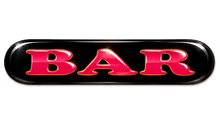
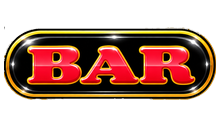
NEO CLASSIC SLOT Ver.10: 位置固定版リール配列・新図柄・正式筐体デザイン
- リール配列: 赤7・BAR・チェリー（オリジナルジャグラー位置）と山（左18/8/1・中13/5・右15/9・2）を固定し、
  リプレイ（旧サイ）・ブドウ・ベルを配置。同じ図柄の縦連続なし
- ブドウ・リプレイの取りこぼしを許容（左・右から止めた時を優先: ブドウ約99.6%・リプレイ約98.5%）
- 左上段山（BARが滑って山）をチャンス目に。左右の山は上段・下段を基本形に
- 新リーチ目: 右上段BAR（赤7なし）=REG、逆押し 右7・BAR＋中段7・BAR=2確、チェリー外れ＋中段BAR=2確
- 図柄7種を正式画像に（赤7・BAR・ブドウ・チェリー・ベル・山・リプレイ）
- 正式筐体画像を背景にし、ランプ・ボタンは光と影のオーバーレイで状態表示。全ボタン操作可
- 総当たり検証171ケースOK（停止禁止0・持ち越し中の目押し保証100%）。確率・速度(50回転)は変更なし

Claude-Session: https://claude.ai/code/session_01FgUBCrA5amgdSwhB6kzWH8

diff --git a/js/core/verifier.js b/js/core/verifier.js
@@ -6,7 +6,7 @@
 
   var ORDERS = [[0, 1, 2], [0, 2, 1], [1, 0, 2], [1, 2, 0], [2, 0, 1], [2, 1, 0]];
   var ORDER_NAMES = ['順押し', '順挟み(左右中)', '中左右', '中右左', '挟み(右左中)', '逆押し'];
-  var MUST_ALIGN = ['GRAPE', 'REPLAY']; // 取りこぼし不可の役
+  var MUST_ALIGN = ['GRAPE', 'REPLAY']; // できるだけ取りこぼさない役（左・右から止めた時を優先。取りこぼしは許容）
 
   NCS.CONTROL_ORDERS = ORDERS;
   NCS.CONTROL_ORDER_NAMES = ORDER_NAMES;
@@ -45,7 +45,7 @@
   NCS.verifyCase = function (flag) {
     var ctrl = new NCS.ReelControl();
     var N = NCS.REEL_SIZE;
-    var st = { games: 0, forbidden: 0, small: 0, bonus: 0, aimed: 0, aimedOk: 0, reach: {}, detAt: [0, 0, 0, 0], maxSlide: 0, samples: [] };
+    var st = { games: 0, forbidden: 0, small: 0, smallLR: 0, gamesLR: 0, bonus: 0, aimed: 0, aimedOk: 0, reach: {}, detAt: [0, 0, 0, 0], maxSlide: 0, samples: [] };
     var detMemo = new Map();
 
     function det(stops, order) {
@@ -92,7 +92,9 @@
           st.forbidden++;
           if (st.samples.length < 5) st.samples.push({ order: ord, press: press, stops: ctrl.stops.slice(), wins: j.wins, reachMe: j.reachMe });
         }
-        if (flag.small && j.wins.some(function (w) { return w.role === flag.small; })) st.small++;
+        var smallWin = flag.small && j.wins.some(function (w) { return w.role === flag.small; });
+        if (smallWin) st.small++;
+        if (ord[0] !== 1) { st.gamesLR++; if (smallWin) st.smallLR++; } // 順押し・逆押し・挟み打ち（左か右から）
         var bonusWin = flag.bonus && j.wins.some(function (w) { return w.role === flag.bonus; });
         if (bonusWin) st.bonus++;
         if (aimed) { st.aimed++; if (bonusWin) st.aimedOk++; }
@@ -111,8 +113,7 @@
       if (st.maxSlide > NCS.MAX_SLIDE) errors.push('すべり超過');
       // 取りこぼし無しの保証は MAX BET（5ライン）のみ。1・2枚掛けは有効ラインが少ないため対象外
       if (st.aimed && st.aimedOk !== st.aimed) errors.push('目押ししても揃わない ' + (st.aimed - st.aimedOk) + '件');
-      // 持ち越し中は目押しされたボーナスを小役より優先するため、取りこぼし無し保証の対象外
-      if (flag.newBonus !== false && flag.bet === NCS.MAX_BET && flag.small && MUST_ALIGN.indexOf(flag.small) >= 0 && st.small !== st.games) errors.push(flag.small + ' 取りこぼし ' + (st.games - st.small) + '件');
+      // ブドウ・リプレイの取りこぼしは許容（出目・演出を優先）。入賞率を表示するのみ
       if (errors.length) ok = false;
       out.push({ flag: flag, name: flagName(flag), stats: st, errors: errors });
       if (onProgress) onProgress(idx + 1, list.length);
@@ -127,7 +128,7 @@
     lines.push('== 停止制御 総当たり検証 (6停止順 × 21^3押下位置 = 55566通り/フラグ) ==');
     rep.results.forEach(function (r) {
       var s = r.stats, parts = [];
-      if (r.flag.small) parts.push(r.flag.small + '入賞 ' + pct(s.small, s.games));
+      if (r.flag.small) parts.push(r.flag.small + '入賞 ' + pct(s.small, s.games) + '（左・右から ' + pct(s.smallLR, s.gamesLR) + '）');
       if (r.flag.bonus) parts.push(r.flag.bonus + '揃い ' + pct(s.bonus, s.games));
       if (s.aimed) parts.push('目押し時の揃い ' + s.aimedOk + '/' + s.aimed);
       var rm = Object.keys(s.reach).map(function (k) { return k + ' ' + pct(s.reach[k], s.games); });

diff --git a/css/cabinet.css b/css/cabinet.css
@@ -227,3 +227,43 @@
 .stop2 .pm-l1 { font-size: 34px; color: #e9d0ff; text-shadow: 0 0 14px #a050ff; }
 @keyframes pm-zoom { from { transform: scale(3); opacity: 0; } to { transform: scale(1); opacity: 1; } }
 .data-opt { background: #1a1a2a; color: #ddd; border-color: #555; }
+
+/* ---- 正式筐体（.skin-bg）: 背景に描き込まれたランプ・ボタンの上に、光と影だけを重ねる ---- */
+.skin-bg .cab-part:not(.has-img):not(.cab-reels):not(.cab-display):not([data-part="boxCounter"]) {
+  border: none; background-color: transparent; box-shadow: none; border-radius: 16px;
+}
+.skin-bg .cab-part .cab-label { display: none; }
+.skin-bg [data-part="cabinetBg"].has-img { box-shadow: none; }
+/* ランプ類: 消灯は暗く、点灯は光る */
+.skin-bg [data-part^="betLamp"][data-state="off"],
+.skin-bg [data-part^="lamp"][data-state="off"] { background: rgba(0, 0, 0, 0.62) !important; }
+.skin-bg [data-part^="betLamp"][data-state="on"],
+.skin-bg [data-part^="lamp"][data-state="on"] {
+  background: radial-gradient(ellipse at center, rgba(255, 255, 255, 0.28), rgba(255, 255, 255, 0) 70%) !important;
+  box-shadow: 0 0 26px 6px rgba(255, 220, 120, 0.6) !important;
+}
+.skin-bg [data-part="bonusPanel"][data-state="off"] { background: rgba(0, 0, 0, 0.45) !important; }
+.skin-bg [data-part="bonusPanel"][data-state="big"] { background: rgba(255, 60, 80, 0.12) !important; box-shadow: 0 0 46px 12px rgba(255, 60, 80, 0.75) !important; }
+.skin-bg [data-part="bonusPanel"][data-state="reg"] { background: rgba(60, 140, 255, 0.12) !important; box-shadow: 0 0 46px 12px rgba(60, 140, 255, 0.75) !important; }
+.skin-bg [data-part="luckyLamp"] { border-radius: 50% !important; }
+.skin-bg [data-part="luckyLamp"][data-state="off"] {
+  background: radial-gradient(ellipse at center, rgba(4, 0, 12, 0.8) 0%, rgba(4, 0, 12, 0.72) 58%, rgba(4, 0, 12, 0) 72%) !important;
+}
+.skin-bg [data-part="luckyLamp"][data-state="on"] {
+  background: radial-gradient(ellipse at center, rgba(255, 235, 255, 0.4), rgba(210, 90, 255, 0.18) 55%, rgba(0, 0, 0, 0) 72%) !important;
+  box-shadow: 0 0 70px 24px rgba(190, 90, 255, 0.8) !important;
+}
+.skin-bg [data-part="luckyLamp"][data-state="premium"] {
+  background: radial-gradient(ellipse at center, rgba(255, 255, 255, 0.6), rgba(160, 40, 255, 0.45) 55%, rgba(0, 0, 0, 0) 74%) !important;
+  box-shadow: 0 0 110px 40px rgba(170, 60, 255, 0.95) !important;
+}
+/* ボタン類: 押せない時は暗く、押せる時は縁が光る、押した瞬間は沈む */
+.skin-bg [data-part^="stop"], .skin-bg [data-part="leverOn"] { border-radius: 50% !important; }
+.skin-bg [data-part^="stop"][data-state="off"], .skin-bg [data-part="leverOn"][data-state="off"],
+.skin-bg [data-part="betButton"][data-state="off"] { background: rgba(0, 0, 0, 0.5) !important; }
+.skin-bg [data-part^="stop"][data-state="on"] { box-shadow: 0 0 28px 8px rgba(255, 70, 70, 0.85) !important; }
+.skin-bg [data-part="leverOn"][data-state="on"] { box-shadow: 0 0 40px 10px rgba(255, 80, 60, 0.8) !important; }
+.skin-bg [data-part="betButton"][data-state="on"],
+.skin-bg [data-part="autoPlay"][data-state="on"] { box-shadow: 0 0 24px 6px rgba(255, 215, 90, 0.8) !important; }
+.skin-bg [data-state="pressed"] { background: rgba(0, 0, 0, 0.4) !important; transform: scale(0.94) !important; }
+.skin-bg [data-part="leverKnob"][data-state="down"] { transform: none !important; background: rgba(255, 255, 255, 0.22) !important; }

diff --git a/js/config/reachme.js b/js/config/reachme.js
@@ -14,15 +14,16 @@
 (function (g) {
   var NCS = (g.NCS = g.NCS || {});
   function cherryWin(c) { for (var i = 0; i < c.wins.length; i++) if (c.wins[i].role === 'CHERRY') return true; return false; }
+  function rightHas(c, s) { return c.sym(2, 0) === s || c.sym(2, 1) === s || c.sym(2, 2) === s; }
   function leftHas(c, s) { return c.sym(0, 0) === s || c.sym(0, 1) === s || c.sym(0, 2) === s; }
   var BONUS = ['BIG', 'REG'];
   NCS.REACHME = {
     // ---- チャンス目（確定ではない。指定の小役かボーナスでのみ停止） ----
     LEFT_CHERRY: { kind: 'chance', name: '左チェリー出現', allow: BONUS, allowSmall: ['CHERRY'],
       test: function (c) { return leftHas(c, 'C'); } },
-    // 左リール第1停止（BAR狙いからの滑り）で山が見えた時のみチャンス目扱い
-    LEFT_YAMA: { kind: 'chance', name: '左山出現', allow: BONUS, allowSmall: ['YAMA'],
-      test: function (c) { return c.order[0] === 0 && leftHas(c, 'M'); } },
+    // 左リール第1停止で左上段に山（BAR狙いからBARが滑って山）の時のみチャンス目扱い
+    LEFT_YAMA: { kind: 'chance', name: '左上段山出現', allow: BONUS, allowSmall: ['YAMA'],
+      test: function (c) { return c.order[0] === 0 && c.sym(0, 0) === 'M'; } },
     // ---- 確定リーチ目 ----
     CHERRY_MISS: { name: 'チェリー外れ', allow: BONUS,
       test: function (c) { return leftHas(c, 'C') && !cherryWin(c); } },
@@ -61,6 +62,15 @@
     // 右中段7の上がBAR・下がリプレイ（右リール番号13の赤7）: 右窓にブドウが無くブドウを否定 = 第1停止でボーナス確定
     REV_BAR7_1K: { name: '逆押し 上BAR・中段赤7・下リプレイ', allow: BONUS,
       test: function (c) { return c.order[0] === 2 && c.sym(2, 0) === 'B' && c.sym(2, 1) === '7' && c.sym(2, 2) === 'R'; } },
+    // 右上段BAR・右窓に赤7なし … REG確定
+    REG_BAR_TOP: { name: '逆押し右上段BAR（赤7なし）', allow: ['REG'],
+      test: function (c) { return c.order[0] === 2 && c.sym(2, 0) === 'B' && !rightHas(c, '7'); } },
+    // 逆押し2確: 右窓に赤7とBARが両方 → 中リール中段に赤7・BAR
+    REV_7BAR_2K: { name: '逆押し 右7・BAR＋中段7・BAR', allow: BONUS,
+      test: function (c) { return c.order[0] === 2 && c.order[1] === 1 && rightHas(c, '7') && rightHas(c, 'B') && (c.sym(1, 1) === '7' || c.sym(1, 1) === 'B'); } },
+    // 順押し2確: 左チェリー（非入賞）＋中段BAR（中段7は CHERRY_MISS_7）
+    CHERRY_MISS_BAR: { name: 'チェリー外れ＋中段BAR', allow: BONUS,
+      test: function (c) { return leftHas(c, 'C') && !cherryWin(c) && c.sym(1, 1) === 'B'; } },
     REG_R7_TOP: { name: '逆押し右上段7', allow: ['REG'],
       test: function (c) { return c.order[0] === 2 && c.sym(2, 0) === '7'; } }
   };

diff --git a/js/core/reelControl.js b/js/core/reelControl.js
@@ -4,7 +4,7 @@
  * テーブル方式ではなく「探索方式」:
  *   押下位置から 0〜4 コマ先の5候補それぞれについて、
  *   残りリールが「どの順番・どのタイミングで押されても」到達しうる最終出目を評価し、
- *     1) 最悪ケース(min)が最も良い候補  … 停止禁止出目を絶対に出さない／取りこぼし不可役を必ず揃える
+ *     1) 最悪ケース(min)が最も良い候補  … 停止禁止出目を絶対に出さない／左・右から止めた時はブドウ・リプレイをできるだけ揃える
  *     2) 平均(avg)が最も良い候補        … 引き込める役・狙いの出目をできるだけ出す
  *     3) すべりコマ数が少ない候補       … 自然な停止
  *   の優先順で選ぶ。
@@ -39,7 +39,7 @@
     return false;
   }
 
-  var SCORE = { small: 100, bonus: 50, modeReach: 80, offModeReach: -5, midLine: 3, barBottom: 1 };
+  var SCORE = { small: 100, bonus: 50, modeReach: 80, offModeReach: -5, midLine: 3, barBottom: 1, yamaMid: -2, yamaTop: 3 };
 
   function terminalScore(flag, mode, j, sc) {
     var i;
@@ -69,6 +69,9 @@
     if (flag.small) for (i = 0; i < j.wins.length; i++) if (j.wins[i].role === flag.small && j.wins[i].line === 0) { s += sc.midLine || 0; break; }
     if (j.leftBarBottom) s += sc.barBottom || 0;
     if (j.rightSevenBottom) s += sc.barBottom || 0; // 逆押しの基本形: 右7下段
+    // 左右の山は上段・下段を基本に。山小役は左BARが滑って左上段に山
+    if (j.sideMidYama) s += (sc.yamaMid || 0) * j.sideMidYama;
+    if (flag.small === 'YAMA' && j.leftTopYama) s += sc.yamaTop || 0;
     return s;
   }
 
@@ -107,9 +110,11 @@
     var min = Infinity, sum = 0, n = 0;
     for (var r = 0; r < 3; r++) {
       if (stops[r] >= 0) continue;
+      // 小役の取りこぼし保証（min）は左・右から止めた時が対象。中押しは停止禁止だけを見る
+      var centerFirst = order.length === 0 && r === 1;
       for (var p = 0; p < N; p++) {
         var c = this.choose(stops, order, r, p);
-        if (c.v.min < min) min = c.v.min;
+        if (c.v.min < min && (!centerFirst || c.v.min === FORBID)) min = c.v.min;
         sum += c.v.avg;
         n++;
       }

diff --git a/js/config/symbols.js b/js/config/symbols.js
@@ -9,10 +9,10 @@
   NCS.SYMBOLS = {
     '7': { name: '赤7',     short: '7',  color: '#e8202a', img: 'assets/images/symbols/sym_red7.png', bundled: true },
     'B': { name: 'BAR',     short: 'BAR',color: '#222222', img: 'assets/images/symbols/sym_bar.png', bundled: true },
-    'C': { name: 'チェリー', short: 'CH', color: '#d0103a', img: 'assets/images/symbols/sym_cherry.png' },
-    'G': { name: 'ブドウ',   short: 'GR', color: '#7a2fb8', img: 'assets/images/symbols/sym_grape.png' },
-    'L': { name: 'ベル',     short: 'BL', color: '#e8b400', img: 'assets/images/symbols/sym_bell.png' },
-    'R': { name: 'リプレイ', short: 'RP', color: '#1a6fd0', img: 'assets/images/symbols/sym_replay.png' },
-    'M': { name: '山',       short: '山', color: '#1f8a3a', img: 'assets/images/symbols/sym_mountain.png' }
+    'C': { name: 'チェリー', short: 'CH', color: '#d0103a', img: 'assets/images/symbols/sym_cherry.png', bundled: true },
+    'G': { name: 'ブドウ',   short: 'GR', color: '#7a2fb8', img: 'assets/images/symbols/sym_grape.png', bundled: true },
+    'L': { name: 'ベル',     short: 'BL', color: '#e8b400', img: 'assets/images/symbols/sym_bell.png', bundled: true },
+    'R': { name: 'リプレイ', short: 'RP', color: '#1a6fd0', img: 'assets/images/symbols/sym_replay.png', bundled: true },
+    'M': { name: '山',       short: '山', color: '#1f8a3a', img: 'assets/images/symbols/sym_mountain.png', bundled: true }
   };
 })(typeof window !== 'undefined' ? window : globalThis);

diff --git a/js/view/cabinet.js b/js/view/cabinet.js
@@ -92,17 +92,20 @@
     this.preload();
   };
 
-  // 画像の存在確認。CONFIG.USE_IMAGE_ASSETS が false の間は読み込まずプレースホルダーのまま。
+  // 画像の存在確認。CONFIG.USE_IMAGE_ASSETS が false の間は同梱済み（bundled）以外は読み込まずプレースホルダーのまま。
   Cabinet.prototype.preload = function () {
-    if (!NCS.CONFIG || !NCS.CONFIG.USE_IMAGE_ASSETS) return;
-    var self = this, files = {};
+    var all = !!(NCS.CONFIG && NCS.CONFIG.USE_IMAGE_ASSETS);
+    var self = this, files = {}, bgFile = null;
     this.skin.parts.forEach(function (p) {
+      if (p.id === 'cabinetBg' && p.states) bgFile = p.states[Object.keys(p.states)[0]];
+      if (!all && !p.bundled) return; // 同梱済みのパーツだけは常に読み込む
       if (p.states) Object.keys(p.states).forEach(function (k) { if (p.states[k]) files[p.states[k]] = true; });
     });
     Object.keys(files).forEach(function (f) {
       var img = new Image();
       img.onload = function () {
         self.available[f] = true;
+        if (f === bgFile) self.stage.classList.add('skin-bg'); // 正式筐体: パーツを光・影のオーバーレイ表示に
         Object.keys(self.parts).forEach(function (id) { var pt = self.parts[id]; if (pt.state) self.setState(id, pt.state); });
       };
       img.src = self.skin.imageBase + f;

diff --git a/js/config/skin.js b/js/config/skin.js
@@ -14,6 +14,7 @@
  *   anim   : 状態切替時などに付与するアニメーション名（css/cabinet.css）
  *   label  : 画像が無い時のプレースホルダー表示名
  *   hidden : true なら初期状態で非表示（cab.setVisible で切替）
+ *   bundled: true なら画像を同梱済みとして常に読み込む（USE_IMAGE_ASSETS が false でも）
  *
  * 画像が未配置・読込失敗のパーツはプレースホルダー（半透明の枠＋名前）で表示される。
  */
@@ -28,8 +29,9 @@
 
     parts: [
       // ---- ① 筐体背景 ----
-      { id: 'cabinetBg', type: 'image', rect: [0, 0, 1080, 1920], z: 0, label: '筐体背景',
-        states: { normal: 'cabinet/cabinet_bg.png' } },
+      // 正式デザイン画像（同梱）。描き込まれたランプ・ボタンの上に、各パーツが光・影として重なる
+      { id: 'cabinetBg', type: 'image', rect: [0, 0, 1080, 1920], z: 0, label: '筐体背景', bundled: true,
+        states: { normal: 'cabinet/cabinet_bg.jpg' } },
 
       // ---- ② リール（3リールは1枚のcanvasに描画。リール間の隙間は背景が見える） ----
       { id: 'reels', type: 'reels', rect: [185, 570, 710, 380], z: 10, label: 'リール',

diff --git a/js/config/reels.js b/js/config/reels.js
@@ -17,9 +17,9 @@
 
   //            0    1    2    3    4    5    6    7    8    9   10   11   12   13   14   15   16   17   18   19   20
   NCS.STRIPS = [
-    /* 左 */ ['L', 'C', 'B', 'G', 'R', 'M', 'G', '7', 'R', 'C', 'B', 'G', 'R', 'M', 'G', '7', 'G', 'R', 'R', 'G', 'R'],
-    /* 中 */ ['L', 'G', 'M', 'C', 'R', 'B', 'G', '7', 'C', 'R', 'R', 'G', 'G', 'M', 'C', 'R', 'B', 'G', '7', 'C', 'R'],
-    /* 右 */ ['R', 'G', '7', 'G', 'M', 'R', 'B', '7', 'G', 'M', 'R', 'G', 'R', '7', 'B', 'M', 'G', 'R', 'L', 'M', 'G']
+    /* 左 */ ['R', 'M', 'G', 'R', 'B', 'C', 'R', 'G', 'M', 'R', '7', 'G', 'L', 'R', 'C', 'B', 'G', 'R', 'M', 'G', '7'],
+    /* 中 */ ['L', 'R', 'C', 'G', 'B', 'M', 'C', 'R', 'G', 'R', 'C', 'G', 'B', 'M', 'C', 'R', 'G', 'R', 'C', 'G', '7'],
+    /* 右 */ ['G', 'R', 'M', 'R', 'G', 'L', 'R', 'G', 'R', 'M', 'R', 'G', 'R', 'G', 'L', 'M', 'R', 'G', 'R', 'B', '7']
   ];
 
   // 有効ライン（3枚掛け5ライン）: 各要素は [左の行, 中の行, 右の行]

diff --git a/js/core/judge.js b/js/core/judge.js
@@ -45,7 +45,10 @@
   // 最終出目の総合判定
   NCS.judge = function (stops, order, lines) {
     var wins = NCS.evalWins(stops, lines);
-    return { wins: wins, reachMe: NCS.evalReachMe(stops, order, wins), leftBarBottom: NCS.symAt(0, stops[0], 2) === 'B', rightSevenBottom: order[0] === 2 && NCS.symAt(2, stops[2], 2) === '7' };
+    return { wins: wins, reachMe: NCS.evalReachMe(stops, order, wins), leftBarBottom: NCS.symAt(0, stops[0], 2) === 'B', rightSevenBottom: order[0] === 2 && NCS.symAt(2, stops[2], 2) === '7',
+      // 左右リールの山は上段・下段が基本形（中段は避ける）。左第1停止の左上段山は「BARが滑って山」の形
+      sideMidYama: (NCS.symAt(0, stops[0], 1) === 'M' ? 1 : 0) + (NCS.symAt(2, stops[2], 1) === 'M' ? 1 : 0),
+      leftTopYama: order[0] === 0 && NCS.symAt(0, stops[0], 0) === 'M' };
   };
 
   // 払い出し計算

diff --git a/js/view/reelView.js b/js/view/reelView.js
@@ -107,6 +107,11 @@
   ReelView.prototype.draw = function (t) {
     var c = this.ctx, W = this.reelW, H = this.symH, n = NCS.REEL_SIZE;
     c.clearRect(0, 0, this.canvas.width, this.canvas.height);
+    // リール間の隙間は暗い仕切り（筐体背景に描かれた図柄が透けないように）
+    if (this.gap > 0) {
+      c.fillStyle = '#16101c';
+      for (var gi = 1; gi < 3; gi++) c.fillRect(gi * this.pitch - this.gap, 0, this.gap, H * 3);
+    }
     for (var i = 0; i < 3; i++) {
       var r = this.reels[i], x0 = i * this.pitch;
       // 停止時の小さなバウンド

diff --git a/tools/verify.js b/tools/verify.js
@@ -6,7 +6,7 @@
  *   - 非成立役の入賞が無いこと
  *   - ボーナス非成立時にリーチ目が出ないこと
  *   - 大山がREGで出ないこと
- *   - ブドウ・リプレイが取りこぼし無しであること
+ *   - ブドウ・リプレイの入賞率（取りこぼしは許容。左・右から止めた時の率も表示）
  * を確認し、各役の引き込み率・リーチ目出現率を表示する。
  */
 var path = require('path');

diff --git a/js/config/probability.js b/js/config/probability.js
@@ -44,7 +44,7 @@
   };
 
   NCS.MODE_TARGETS = {
-    CHERRY_MISS_7: { CHERRY_MISS_7: 1, CHERRY_MISS: 0.6 },
+    CHERRY_MISS_7: { CHERRY_MISS_7: 1, CHERRY_MISS_BAR: 1, CHERRY_MISS: 0.6 },
     YAMA_HASAMI: { YAMA_HASAMI_MISS: 1 },
     V_SHAPE: { V_SHAPE: 1 }, OYAMA: { OYAMA: 1 }, TANI: { TANI: 1 }, KOYAMA: { KOYAMA: 1 },
     BAR_LINE: { BAR_LINE: 1 },
